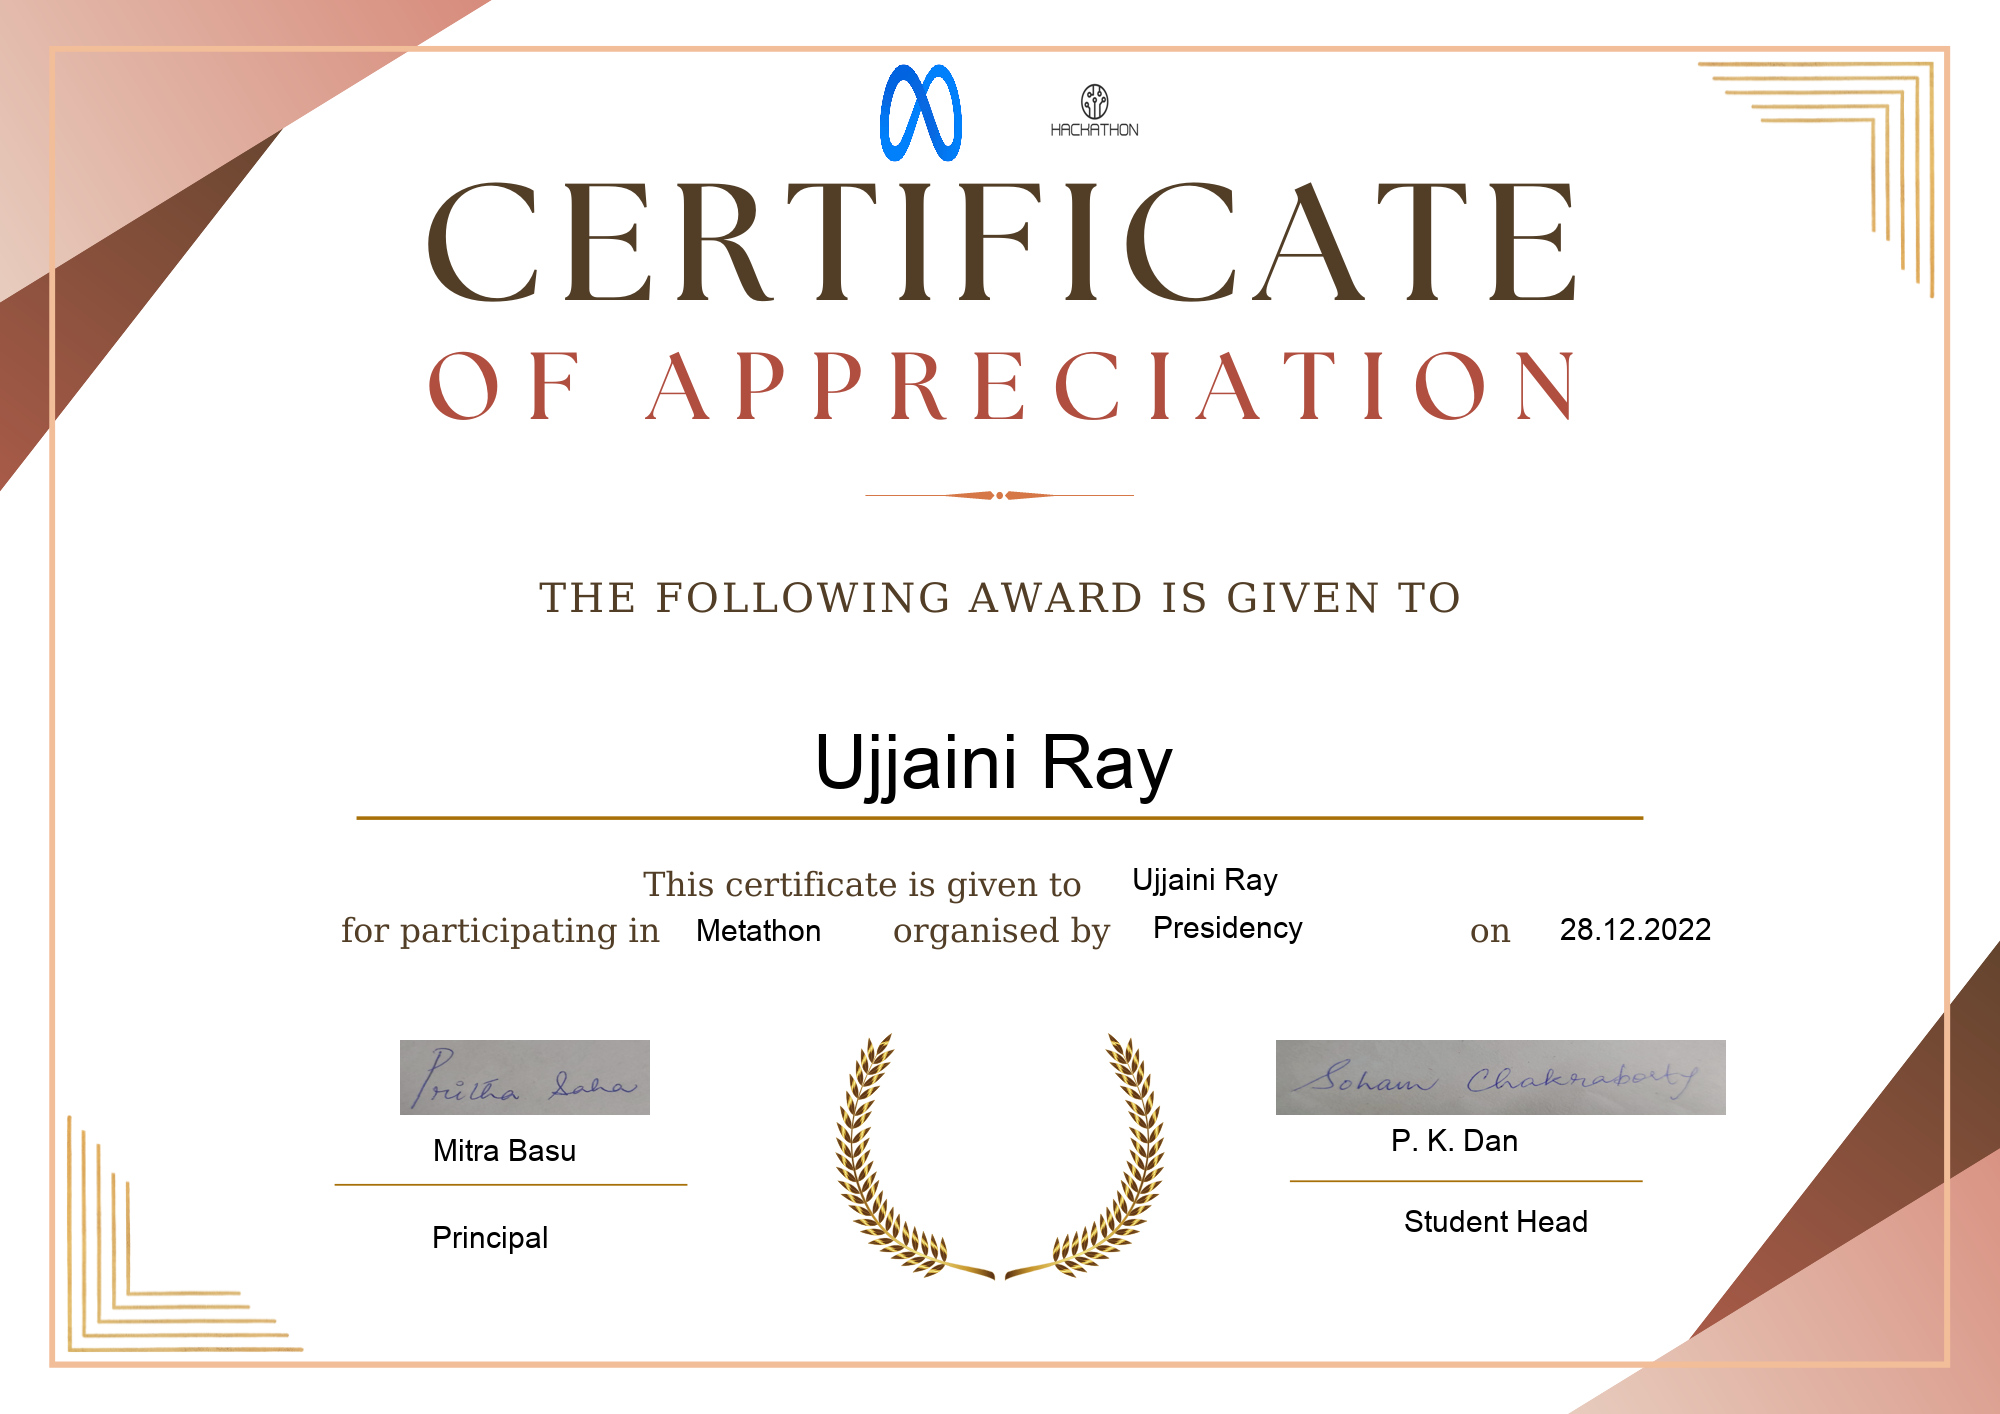
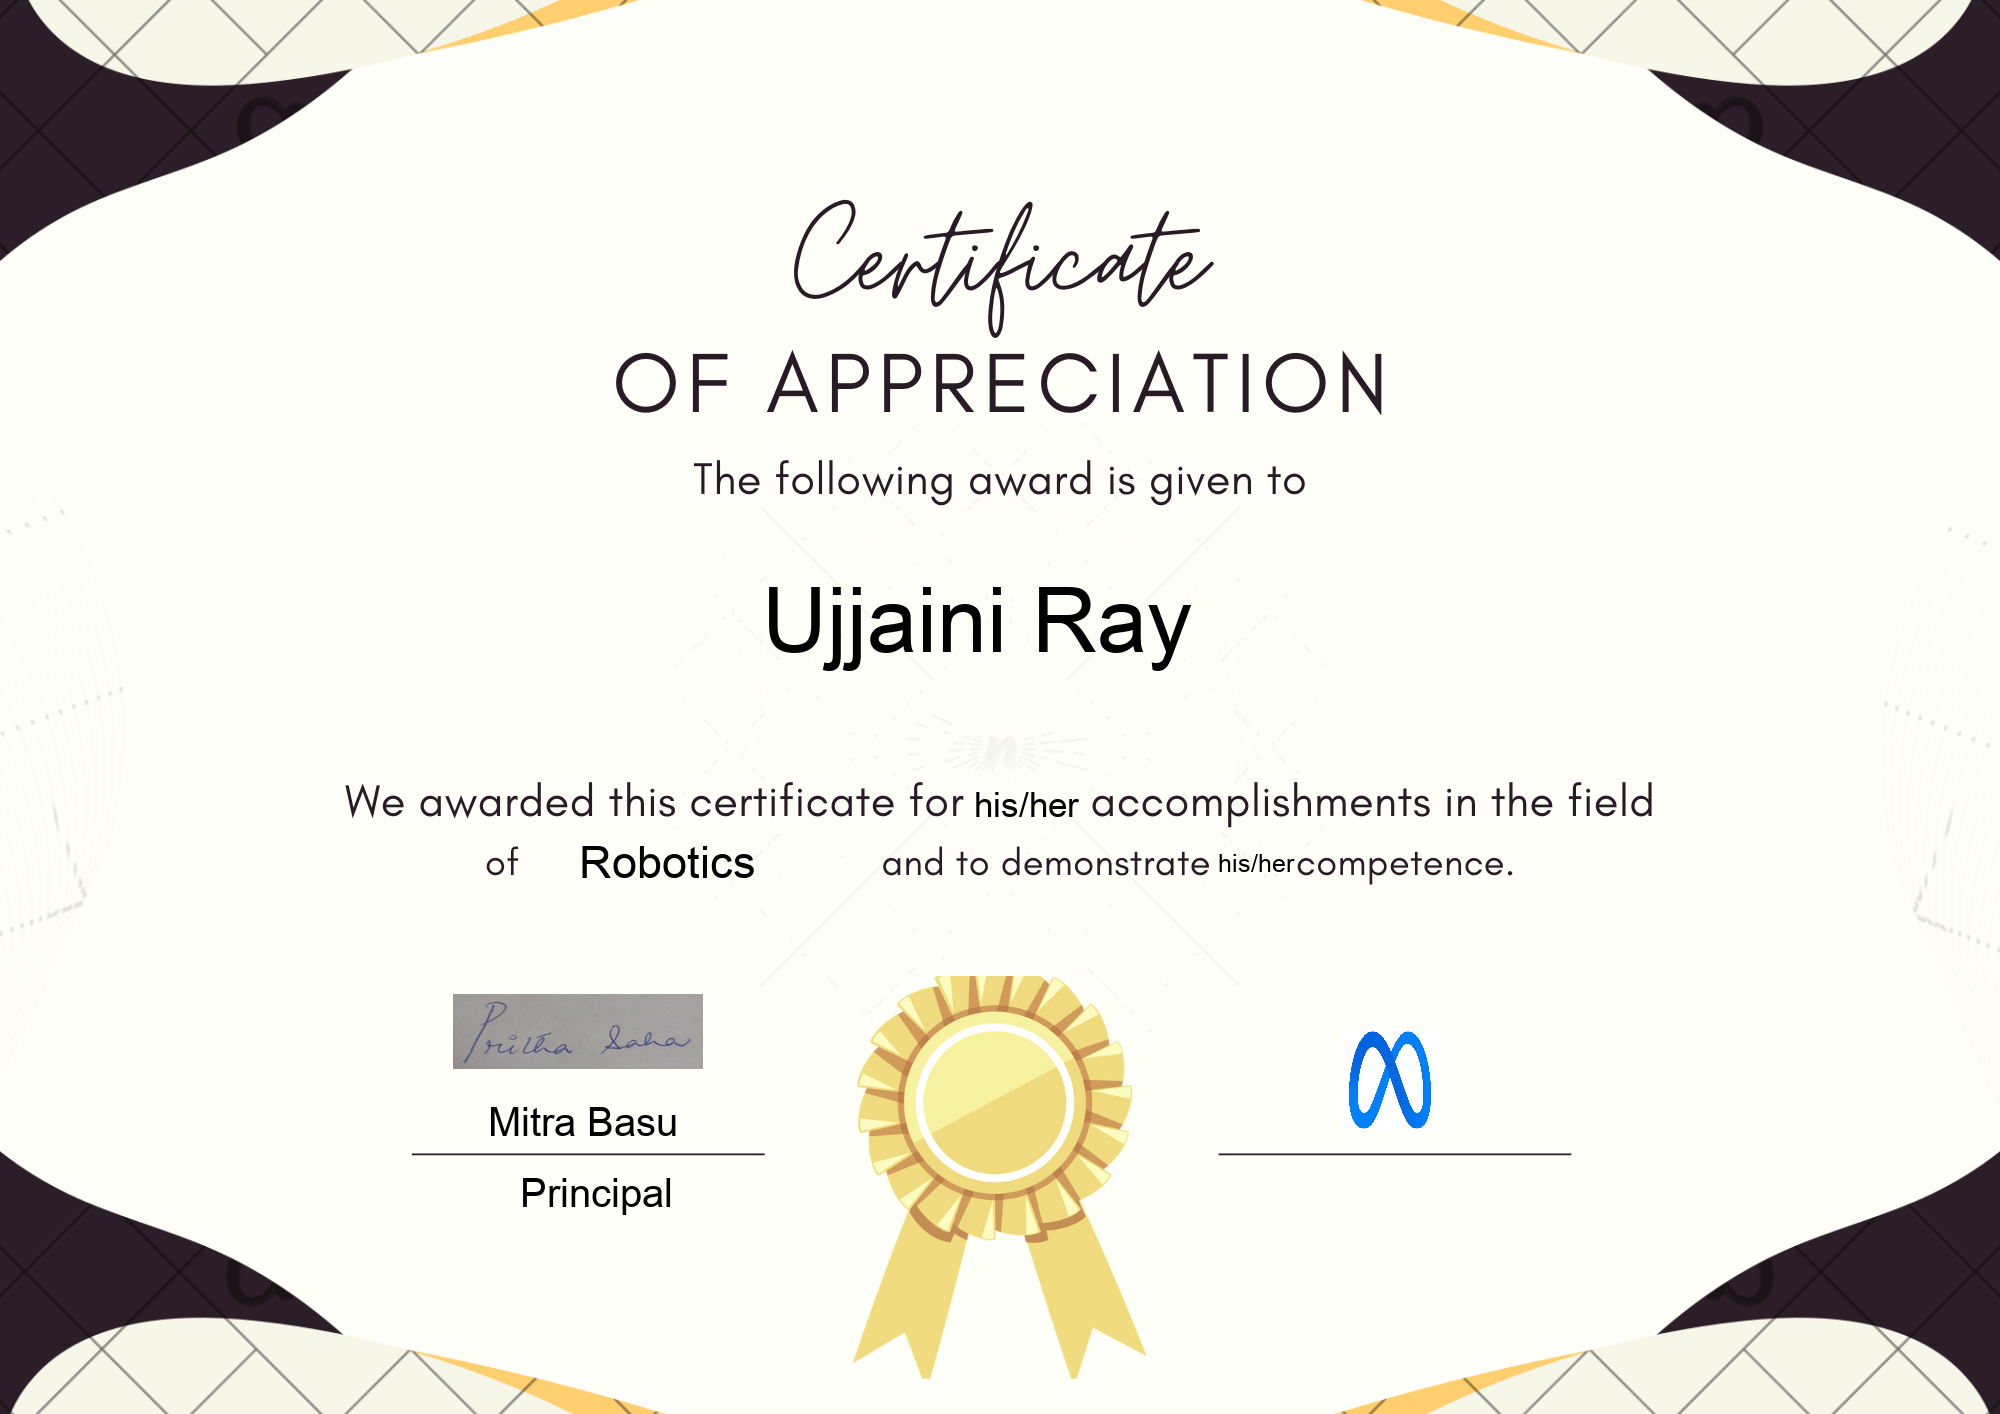
Duality Removed

diff --git a/certificates/certificate1.py b/certificates/certificate1.py
@@ -2,14 +2,13 @@ from PIL import Image,ImageDraw,ImageFont
 import os
 if not os.path.exists('certificatesave'):
     os.makedirs('certificatesave')
-
 #FONT_FILE = ImageFont.truetype("arial.ttf", 50)
 #FONT_FILE_o = ImageFont.truetype("arial.ttf", 30)
 FONT_COLOR = "#000000"
 t1 = Image.open('certificates/cert/cert1.png')
 WIDTH, HEIGHT = t1.size
 #def make_certificates(name,event,date,venue):
-def make_certificates1(name,gender,field,desig,design,n1,n2,url1,url2,log1,log2):
+def make_certificates1(name,gender,field,desig,n1,url1,log1):
     image_source = Image.open('certificates/cert/cert1.png')
     draw = ImageDraw.Draw(image_source)
     name_width, name_height = draw.textsize(name)
@@ -22,12 +21,12 @@ def make_certificates1(name,gender,field,desig,design,n1,n2,url1,url2,log1,log2)
     draw.text((579,837), field, fill=FONT_COLOR,font=ImageFont.truetype("Arial.ttf",45))
     desig_width, desig_height = draw.textsize(desig)
     draw.text((520,1170), desig, fill=FONT_COLOR,font=ImageFont.truetype("Arial.ttf",40))
-    design_width, design_height = draw.textsize(design)
-    draw.text((1302,1170), design, fill=FONT_COLOR,font=ImageFont.truetype("Arial.ttf",40))
+    #design_width, design_height = draw.textsize(design)
+    #draw.text((1302,1170), design, fill=FONT_COLOR,font=ImageFont.truetype("Arial.ttf",40))
     n1_width, n1_height = draw.textsize(n1)
     draw.text((488,1099), n1, fill=FONT_COLOR,font=ImageFont.truetype("Arial.ttf",40))
-    n2_width, n2_height = draw.textsize(n2)
-    draw.text((1301,1099), n2, fill=FONT_COLOR,font=ImageFont.truetype("Arial.ttf",40))
+    #n2_width, n2_height = draw.textsize(n2)
+    #draw.text((1301,1099), n2, fill=FONT_COLOR,font=ImageFont.truetype("Arial.ttf",40))
     #event_width, event_height = draw.textsize(event)
     #draw.text((568,938), event, fill=FONT_COLOR)
     #date_width, date_height = draw.textsize(date)
@@ -38,35 +37,35 @@ def make_certificates1(name,gender,field,desig,design,n1,n2,url1,url2,log1,log2)
     #print('Saving Certificate of:', name)
 
     insert_image1 = Image.open(url1)
-    insert_image2 = Image.open(url2)
+    #insert_image2 = Image.open(url2)
     logo1 = Image.open(log1)
-    logo2 = Image.open(log2)
+    #logo2 = Image.open(log2)
 
     width3, height3 = logo1.size
-    width4, height4 = logo2.size
+    #width4, height4 = logo2.size
     a = width3/height3
-    b = width4/height4
+    #b = width4/height4
     if a <= 3:
         logo1 = logo1.resize((100,100))
-        image_source.paste(logo1, (871,63))
+        image_source.paste(logo1, (1340,1030))
     else :
         logo1 = logo1.resize((200,100))
-        image_source.paste(logo1, (871,63))
+        image_source.paste(logo1, (1340,1030))
 
-    if b <= 3 :
-        logo2 = logo2.resize((100,100))
-        image_source.paste(logo2, (1045,63))
-    else :
-        logo2 = logo2.resize((200,100))
-        image_source.paste(logo2, (1045,63))
+    #if b <= 3 :
+        #logo2 = logo2.resize((100,100))
+        #image_source.paste(logo2, (1045,63))
+    #else :
+        #logo2 = logo2.resize((200,100))
+        #image_source.paste(logo2, (1045,63))
 
 
 
 
     width1, height1 = insert_image1.size
-    width2, height2 = insert_image2.size
+    #width2, height2 = insert_image2.size
     x = width1/height1
-    y = width2/height2
+    #y = width2/height2
     if x <= 3:
         insert_image1 = insert_image1.resize((250,75))
         image_source.paste(insert_image1, (453,994))
@@ -74,14 +73,14 @@ def make_certificates1(name,gender,field,desig,design,n1,n2,url1,url2,log1,log2)
         insert_image1 = insert_image1.resize((450,75))
         image_source.paste(insert_image1, (453,994))
 
-    if y <= 3 :
-        insert_image2 = insert_image2.resize((250,75))
-        image_source.paste(insert_image2, (1269,994))
-    else :
-        insert_image2 = insert_image2.resize((450,75))
-        image_source.paste(insert_image2, (1269,994))
+    #if y <= 3 :
+        #insert_image2 = insert_image2.resize((250,75))
+        #image_source.paste(insert_image2, (1269,994))
+    #else :
+        #insert_image2 = insert_image2.resize((450,75))
+        #image_source.paste(insert_image2, (1269,994))
 
-    image_source.save('certificatesave/certificate.png', format='PNG')
+    image_source.save('certificates/certificatesave/certificate.png', format='PNG')
 
 
 if __name__ == "__main__":
@@ -92,14 +91,14 @@ if __name__ == "__main__":
     field = "Robotics"
     gender = "his/her"
     desig = "Principal"
-    design = "Student Head"
+    #design = "Student Head"
     n1 = "Mitra Basu"
-    n2 = "P. K. Dan"
+    #n2 = "P. K. Dan"
     url1 = "signs/sig1.png"
-    url2 = "signs/sig2.png"
+    #url2 = "signs/sig2.png"
     log1 = "logos/logo1.png"
-    log2 = "logos/logo2.png"
+    #log2 = "logos/logo2.png"
     for name in names:
         #make_certificates(name,event,date,venue)
-        make_certificates1(name,gender,field,desig,design,n1,n2,url1,url2,log1,log2)
+        make_certificates1(name,gender,field,desig,n1,url1,log1)
     print(len(names), "certificates done.")

diff --git a/certificates/certificate2.py b/certificates/certificate2.py
@@ -7,7 +7,7 @@ if not os.path.exists('certificatesave'):
 FONT_COLOR = "#000000"
 t1 = Image.open('certificates/cert/cert2.png')
 WIDTH, HEIGHT = t1.size
-def make_certificates2(name,event,date,venue,desig,design,n1,n2,url1,url2,log1,log2):
+def make_certificates2(name,event,date,venue,desig,n1,url1,log1):
     image_source = Image.open('certificates/cert/cert2.png')
     draw = ImageDraw.Draw(image_source)
     name_width, name_height = draw.textsize(name)
@@ -21,22 +21,22 @@ def make_certificates2(name,event,date,venue,desig,design,n1,n2,url1,url2,log1,l
 
     desig_width, desig_height = draw.textsize(desig)
     draw.text((520,1161), desig, fill=FONT_COLOR,font=ImageFont.truetype("Arial.ttf",30))
-    design_width, design_height = draw.textsize(design)
-    draw.text((1302,1161), design, fill=FONT_COLOR,font=ImageFont.truetype("Arial.ttf",30))
+    #design_width, design_height = draw.textsize(design)
+    #draw.text((1302,1161), design, fill=FONT_COLOR,font=ImageFont.truetype("Arial.ttf",30))
     n1_width, n1_height = draw.textsize(n1)
     draw.text((488,1110), n1, fill=FONT_COLOR,font=ImageFont.truetype("Arial.ttf",30))
-    n2_width, n2_height = draw.textsize(n2)
-    draw.text((1301,1110), n2, fill=FONT_COLOR,font=ImageFont.truetype("Arial.ttf",30))
+    #n2_width, n2_height = draw.textsize(n2)
+    #draw.text((1301,1110), n2, fill=FONT_COLOR,font=ImageFont.truetype("Arial.ttf",30))
     #image_source.save("./out/" + name +".png")
     #print('Saving Certificate of:', name)
 
     insert_image1 = Image.open(url1)
-    insert_image2 = Image.open(url2)
+    #insert_image2 = Image.open(url2)
 
     width1, height1 = insert_image1.size
-    width2, height2 = insert_image2.size
+    #width2, height2 = insert_image2.size
     x = width1/height1
-    y = width2/height2
+    #y = width2/height2
     if x <= 3:
         insert_image1 = insert_image1.resize((250,75))
         image_source.paste(insert_image1, (453,1020))
@@ -44,35 +44,35 @@ def make_certificates2(name,event,date,venue,desig,design,n1,n2,url1,url2,log1,l
         insert_image1 = insert_image1.resize((450,75))
         image_source.paste(insert_image1, (453,1020))
 
-    if y <= 3 :
-        insert_image2 = insert_image2.resize((250,75))
-        image_source.paste(insert_image2, (1269,1020))
-    else :
-        insert_image2 = insert_image2.resize((450,75))
-        image_source.paste(insert_image2, (1269,1020))
+    #if y <= 3 :
+        #insert_image2 = insert_image2.resize((250,75))
+        #image_source.paste(insert_image2, (1269,1020))
+    #else :
+        #insert_image2 = insert_image2.resize((450,75))
+        #image_source.paste(insert_image2, (1269,1020))
 
     logo1 = Image.open(log1)
-    logo2 = Image.open(log2)
+    #logo2 = Image.open(log2)
 
     width3, height3 = logo1.size
-    width4, height4 = logo2.size
+    #width4, height4 = logo2.size
     a = width3/height3
-    b = width4/height4
+    #b = width4/height4
     if a <= 3:
         logo1 = logo1.resize((100,100))
-        image_source.paste(logo1, (871,63))
+        image_source.paste(logo1, (1340,1030))
     else :
         logo1 = logo1.resize((200,100))
-        image_source.paste(logo1, (871,63))
+        image_source.paste(logo1, (1340,1030))
 
-    if b <= 3 :
-        logo2 = logo2.resize((100,100))
-        image_source.paste(logo2, (1045,63))
-    else :
-        logo2 = logo2.resize((200,100))
-        image_source.paste(logo2, (1045,63))
+    #if b <= 3 :
+        #logo2 = logo2.resize((100,100))
+        #image_source.paste(logo2, (1045,63))
+    #else :
+        #logo2 = logo2.resize((200,100))
+        #image_source.paste(logo2, (1045,63))
 
-    image_source.save('certificatesave/certificate.png', format='PNG')
+    image_source.save('certificates/certificatesave/certificate.png', format='PNG')
 
 if __name__ == "__main__":
     names = ["Soham Chakraborty", "Kaustav Giri", "Pritha Saha","Ujjaini Ray"]
@@ -81,13 +81,13 @@ if __name__ == "__main__":
     venue = "Taal Kutir Convention"
 
     desig = "Principal"
-    design = "Student Head"
+    #design = "Student Head"
     n1 = "Mitra Basu"
-    n2 = "P. K. Dan"
+    #n2 = "P. K. Dan"
     url1 = "signs/sig1.png"
-    url2 = "signs/sig2.png"
+    #url2 = "signs/sig2.png"
     log1 = "logos/logo1.png"
-    log2 = "logos/logo2.png"
+    #log2 = "logos/logo2.png"
     for name in names:
-        make_certificates2(name,event,date,venue,desig,design,n1,n2,url1,url2,log1,log2)
+        make_certificates2(name,event,date,venue,desig,n1,url1,log1)
     print(len(names), "certificates done.")

diff --git a/certificates/certificate3.py b/certificates/certificate3.py
@@ -7,7 +7,7 @@ if not os.path.exists('certificatesave'):
 FONT_COLOR = "#000000"
 t1 = Image.open('certificates/cert/cert3.png')
 WIDTH, HEIGHT = t1.size
-def make_certificates3(name,event,date,org,desig,design,n1,n2,url1,url2,log1,log2):
+def make_certificates3(name,event,date,org,desig,n1,url1,log1):
     image_source = Image.open('certificates/cert/cert3.png')
     draw = ImageDraw.Draw(image_source)
     name_width, name_height = draw.textsize(name)
@@ -23,22 +23,22 @@ def make_certificates3(name,event,date,org,desig,design,n1,n2,url1,url2,log1,log
 
     desig_width, desig_height = draw.textsize(desig)
     draw.text((432,1220), desig, fill=FONT_COLOR,font=ImageFont.truetype("Arial.ttf",30))
-    design_width, design_height = draw.textsize(design)
-    draw.text((1404,1204), design, fill=FONT_COLOR,font=ImageFont.truetype("Arial.ttf",30))
+    #design_width, design_height = draw.textsize(design)
+    #draw.text((1404,1204), design, fill=FONT_COLOR,font=ImageFont.truetype("Arial.ttf",30))
     n1_width, n1_height = draw.textsize(n1)
     draw.text((433,1133), n1, fill=FONT_COLOR,font=ImageFont.truetype("Arial.ttf",30))
-    n2_width, n2_height = draw.textsize(n2)
-    draw.text((1391,1123), n2, fill=FONT_COLOR,font=ImageFont.truetype("Arial.ttf",30))
+    #n2_width, n2_height = draw.textsize(n2)
+    #draw.text((1391,1123), n2, fill=FONT_COLOR,font=ImageFont.truetype("Arial.ttf",30))
     #image_source.save("./out/" + name +".png")
     #print('Saving Certificate of:', name)
 
     insert_image1 = Image.open(url1)
-    insert_image2 = Image.open(url2)
+    #insert_image2 = Image.open(url2)
 
     width1, height1 = insert_image1.size
-    width2, height2 = insert_image2.size
+    #width2, height2 = insert_image2.size
     x = width1/height1
-    y = width2/height2
+    #y = width2/height2
     if x <= 3 :
         insert_image1 = insert_image1.resize((250,75))
         image_source.paste(insert_image1, (400,1040))
@@ -46,35 +46,35 @@ def make_certificates3(name,event,date,org,desig,design,n1,n2,url1,url2,log1,log
         insert_image1 = insert_image1.resize((450,75))
         image_source.paste(insert_image1, (400,1040))
         
-    if y <= 3 :
-        insert_image2 = insert_image2.resize((250,75))
-        image_source.paste(insert_image2, (1296,1040))
-    else :
-        insert_image2 = insert_image2.resize((450,75))
-        image_source.paste(insert_image2, (1276,1040))
+    #if y <= 3 :
+        #insert_image2 = insert_image2.resize((250,75))
+        #image_source.paste(insert_image2, (1296,1040))
+    #else :
+        #insert_image2 = insert_image2.resize((450,75))
+        #image_source.paste(insert_image2, (1276,1040))
 
     logo1 = Image.open(log1)
-    logo2 = Image.open(log2)
+    #logo2 = Image.open(log2)
 
     width3, height3 = logo1.size
-    width4, height4 = logo2.size
+    #width4, height4 = logo2.size
     a = width3/height3
-    b = width4/height4
+    #b = width4/height4
     if a <= 3:
         logo1 = logo1.resize((100,100))
-        image_source.paste(logo1, (871,63))
+        image_source.paste(logo1, (1400,1040))
     else :
         logo1 = logo1.resize((200,100))
-        image_source.paste(logo1, (871,63))
+        image_source.paste(logo1, (1400,1040))
 
-    if b <= 3 :
-        logo2 = logo2.resize((100,100))
-        image_source.paste(logo2, (1045,63))
-    else :
-        logo2 = logo2.resize((200,100))
-        image_source.paste(logo2, (1045,63))
+    #if b <= 3 :
+        #logo2 = logo2.resize((100,100))
+        #image_source.paste(logo2, (1045,63))
+    #else :
+        #logo2 = logo2.resize((200,100))
+        #image_source.paste(logo2, (1045,63))
 
-    image_source.save('certificatesave/certificate.png', format='PNG')
+    image_source.save('certificates/certificatesave/certificate.png', format='PNG')
 
 if __name__ == "__main__":
     names = ["Soham Chakraborty", "Kaustav Giri", "Pritha Saha","Ujjaini Ray"]
@@ -84,13 +84,13 @@ if __name__ == "__main__":
     org = "Presidency"
 
     desig = "Principal"
-    design = "Student Head"
+    #design = "Student Head"
     n1 = "Mitra Basu"
-    n2 = "P. K. Dan"
+    #n2 = "P. K. Dan"
     url1 = "signs/sig1.png"
-    url2 = "signs/sig2.png"
+    #url2 = "signs/sig2.png"
     log1 = "logos/logo1.png"
-    log2 = "logos/logo2.png"
+    #log2 = "logos/logo2.png"
     for name in names:
-        make_certificates3(name,event,date,org,desig,design,n1,n2,url1,url2,log1,log2)
+        make_certificates3(name,event,date,org,desig,n1,url1,log1)
     print(len(names), "certificates done.")
